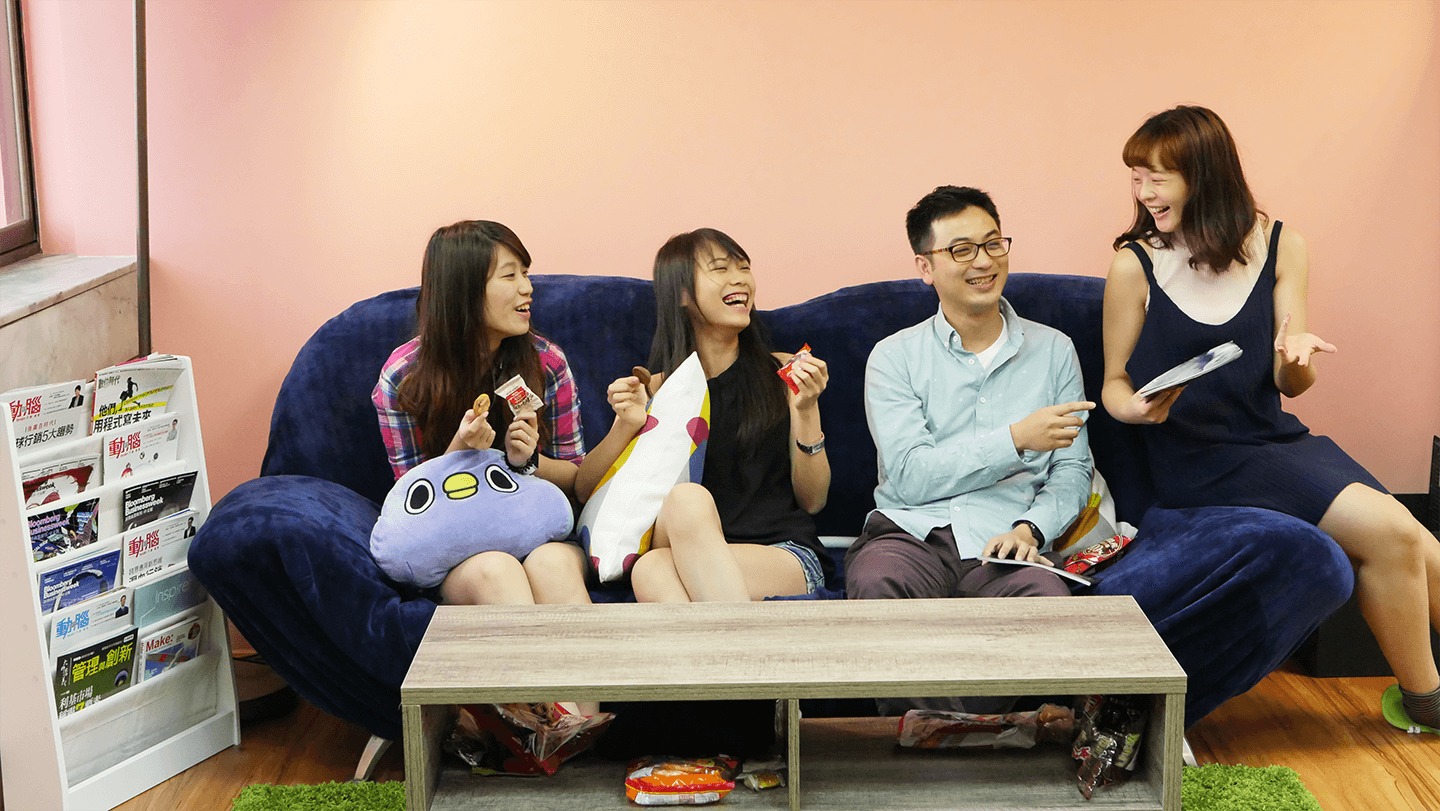
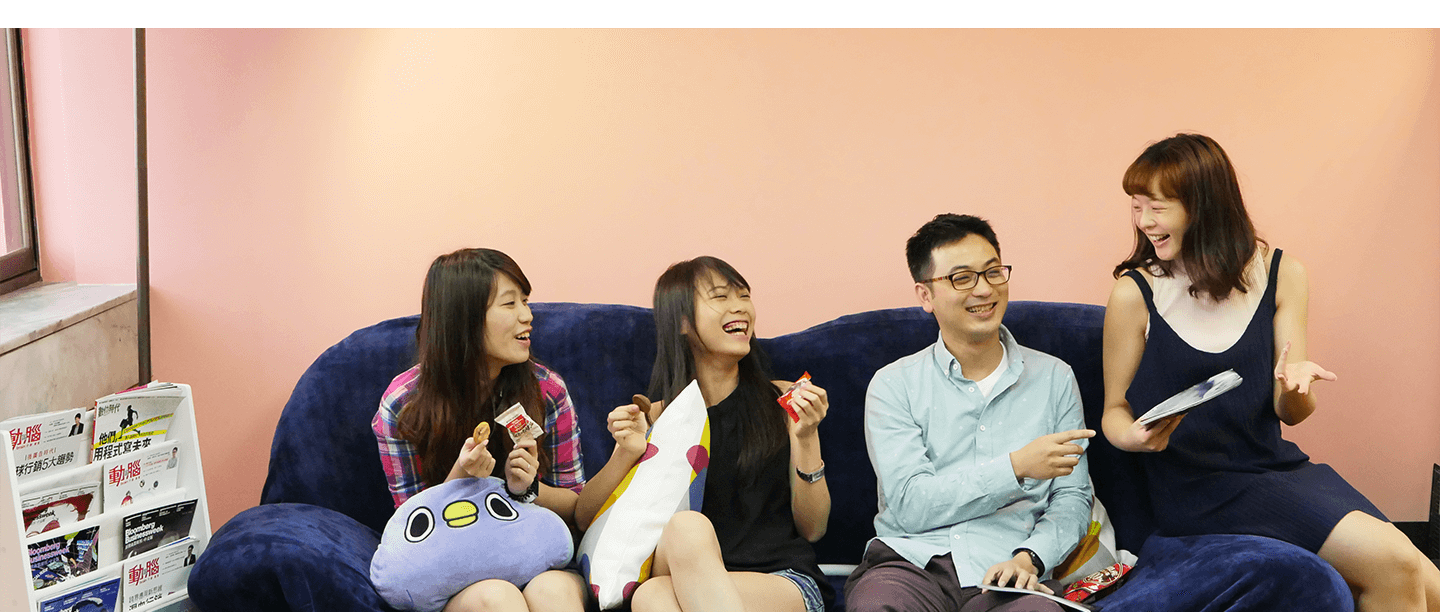
Site updated: 2017-04-25 16:01:48

diff --git a/all-categories/index.html b/all-categories/index.html
@@ -230,7 +230,7 @@
     <section class="boxes">
         
             
-                    <div id="posts-list-專案管理" class="archive box" data-category="專案管理" data-parent-categories=""><h4 class="archive-title text-xlarge"><a class="link-unstyled" href="/categories/專案管理/">專案管理 (6)</a></h4><ul class="archive-posts"><li class="archive-post"><a class="archive-post-title" href="/2016/11/18/PM在團隊中扮演協調與溝通的角色/">PM在團隊中扮演協調與溝通的角色</a><span class="archive-post-date"> - 11月 18, 2016</span></li><li class="archive-post"><a class="archive-post-title" href="/2016/12/02/UX 從新手開始/">UX 從新手開始，使用者體驗的 100堂必修課</a><span class="archive-post-date"> - 12月 02, 2016</span></li><li class="archive-post"><a class="archive-post-title" href="/2017/02/14/所有決議都必須留下紀錄 - 凡走過，必留下痕跡/">所有決議都必須留下紀錄 - 凡走過，必留下痕跡</a><span class="archive-post-date"> - 2月 14, 2017</span></li><li class="archive-post"><a class="archive-post-title" href="/2017/02/20/有效率會議的五大原則/">有效率會議的五大原則</a><span class="archive-post-date"> - 2月 20, 2017</span></li><li class="archive-post"><a class="archive-post-title" href="/2017/01/06/溝通-活用本質力/">溝通-活用本質力</a><span class="archive-post-date"> - 1月 06, 2017</span></li><li class="archive-post"><a class="archive-post-title" href="/2017/02/13/觀察實體世界中的「使用者體驗」/">觀察實體世界中的「使用者體驗」</a><span class="archive-post-date"> - 2月 13, 2017</span></li></ul></div>
+                    <div id="posts-list-專案管理" class="archive box" data-category="專案管理" data-parent-categories=""><h4 class="archive-title text-xlarge"><a class="link-unstyled" href="/categories/專案管理/">專案管理 (6)</a></h4><ul class="archive-posts"><li class="archive-post"><a class="archive-post-title" href="/2016/11/18/PM在團隊中扮演協調與溝通的角色/">PM在團隊中扮演協調與溝通的角色</a><span class="archive-post-date"> - 11月 18, 2016</span></li><li class="archive-post"><a class="archive-post-title" href="/2016/12/02/UX 從新手開始/">UX 從新手開始，使用者體驗的 100堂必修課</a><span class="archive-post-date"> - 12月 02, 2016</span></li><li class="archive-post"><a class="archive-post-title" href="/2017/02/20/有效率會議的五大原則/">有效率會議的五大原則</a><span class="archive-post-date"> - 2月 20, 2017</span></li><li class="archive-post"><a class="archive-post-title" href="/2017/02/14/所有決議都必須留下紀錄 - 凡走過，必留下痕跡/">所有決議都必須留下紀錄 - 凡走過，必留下痕跡</a><span class="archive-post-date"> - 2月 14, 2017</span></li><li class="archive-post"><a class="archive-post-title" href="/2017/01/06/溝通-活用本質力/">溝通-活用本質力</a><span class="archive-post-date"> - 1月 06, 2017</span></li><li class="archive-post"><a class="archive-post-title" href="/2017/02/13/觀察實體世界中的「使用者體驗」/">觀察實體世界中的「使用者體驗」</a><span class="archive-post-date"> - 2月 13, 2017</span></li></ul></div>
             
         
             

diff --git a/all-tags/index.html b/all-tags/index.html
@@ -462,20 +462,20 @@
                 <ul class="archive-posts">
                     
                         <li class="archive-post">
-                            <a class="archive-post-title" href="/2017/02/14/所有決議都必須留下紀錄 - 凡走過，必留下痕跡/">
-                                所有決議都必須留下紀錄 - 凡走過，必留下痕跡
-                            </a>
-                            <span class="archive-post-date">
-                                 - 2月 14, 2017
-                            </span>
-                        </li>
-                    
-                        <li class="archive-post">
                             <a class="archive-post-title" href="/2017/02/20/有效率會議的五大原則/">
                                 有效率會議的五大原則
                             </a>
                             <span class="archive-post-date">
                                  - 2月 20, 2017
+                            </span>
+                        </li>
+                    
+                        <li class="archive-post">
+                            <a class="archive-post-title" href="/2017/02/14/所有決議都必須留下紀錄 - 凡走過，必留下痕跡/">
+                                所有決議都必須留下紀錄 - 凡走過，必留下痕跡
+                            </a>
+                            <span class="archive-post-date">
+                                 - 2月 14, 2017
                             </span>
                         </li>
                     
@@ -500,20 +500,20 @@
                         </li>
                     
                         <li class="archive-post">
-                            <a class="archive-post-title" href="/2017/02/14/所有決議都必須留下紀錄 - 凡走過，必留下痕跡/">
-                                所有決議都必須留下紀錄 - 凡走過，必留下痕跡
-                            </a>
-                            <span class="archive-post-date">
-                                 - 2月 14, 2017
-                            </span>
-                        </li>
-                    
-                        <li class="archive-post">
                             <a class="archive-post-title" href="/2017/02/20/有效率會議的五大原則/">
                                 有效率會議的五大原則
                             </a>
                             <span class="archive-post-date">
                                  - 2月 20, 2017
+                            </span>
+                        </li>
+                    
+                        <li class="archive-post">
+                            <a class="archive-post-title" href="/2017/02/14/所有決議都必須留下紀錄 - 凡走過，必留下痕跡/">
+                                所有決議都必須留下紀錄 - 凡走過，必留下痕跡
+                            </a>
+                            <span class="archive-post-date">
+                                 - 2月 14, 2017
                             </span>
                         </li>
                     

diff --git a/2017/04/06/上班原來也可以像是回到家/index.html b/2017/04/06/上班原來也可以像是回到家/index.html
@@ -25,7 +25,7 @@
 <meta property="og:site_name" content="UniSharp blog">
 <meta property="og:description" content="好的工作環境，能激發無限創意、能刺激分享、能夠孕育出一群同甘共苦的夥伴，我們共享、共創、共樂，把這樣的理念在辦公室每一隅都堅持實現。">
 <meta property="og:image" content="http://blog.unisharp.com/2017/04/06/上班原來也可以像是回到家/office.png">
-<meta property="og:updated_time" content="2017-04-25T06:03:38.000Z">
+<meta property="og:updated_time" content="2017-04-25T07:49:50.000Z">
 <meta name="twitter:card" content="summary">
 <meta name="twitter:title" content="上班原來也可以像是回到家">
 <meta name="twitter:description" content="好的工作環境，能激發無限創意、能刺激分享、能夠孕育出一群同甘共苦的夥伴，我們共享、共創、共樂，把這樣的理念在辦公室每一隅都堅持實現。">
@@ -210,7 +210,7 @@
             
         <div class="post-header-cover
                     text-center
-                    post-header-cover--full"
+                    post-header-cover--partial"
              style="background-image:url('/2017/04/06/上班原來也可以像是回到家/office.png');"
              data-behavior="4">
             
